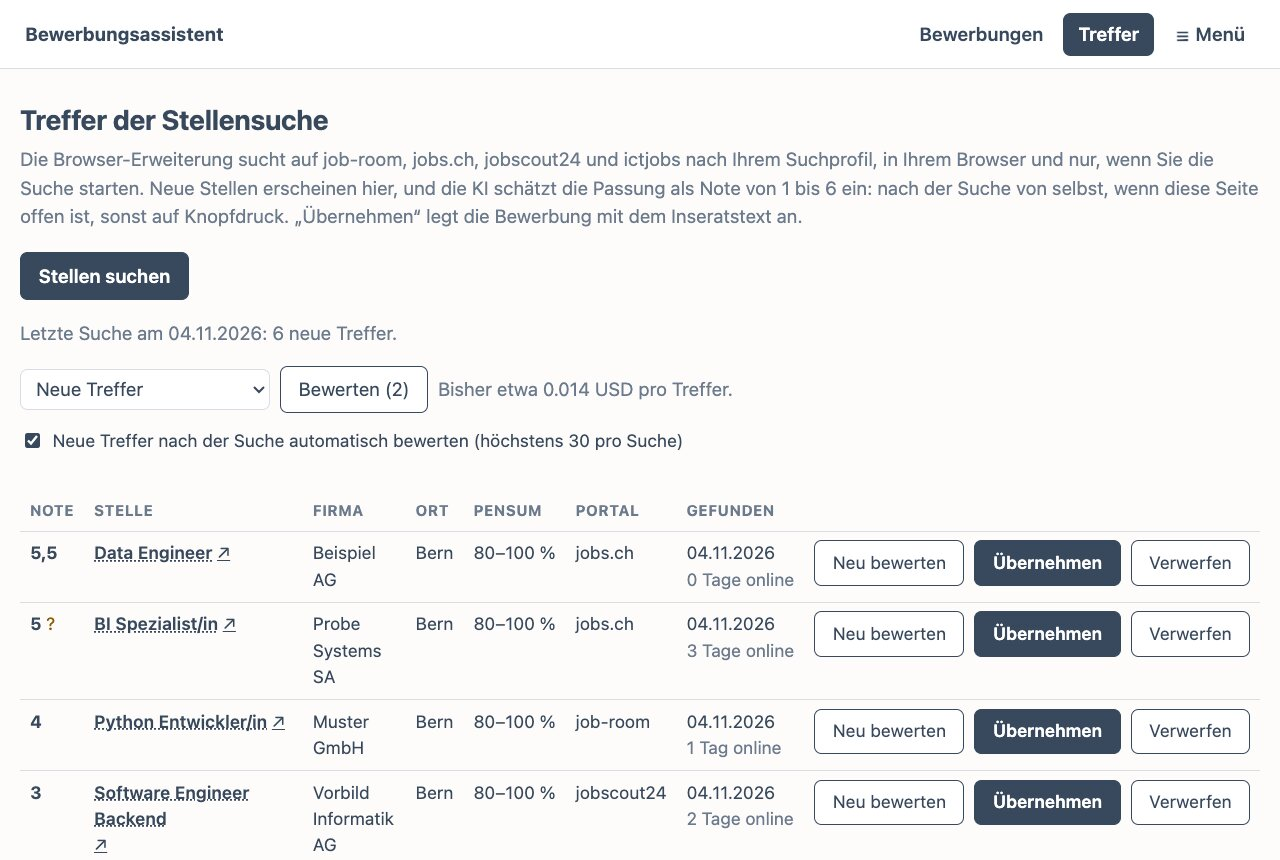
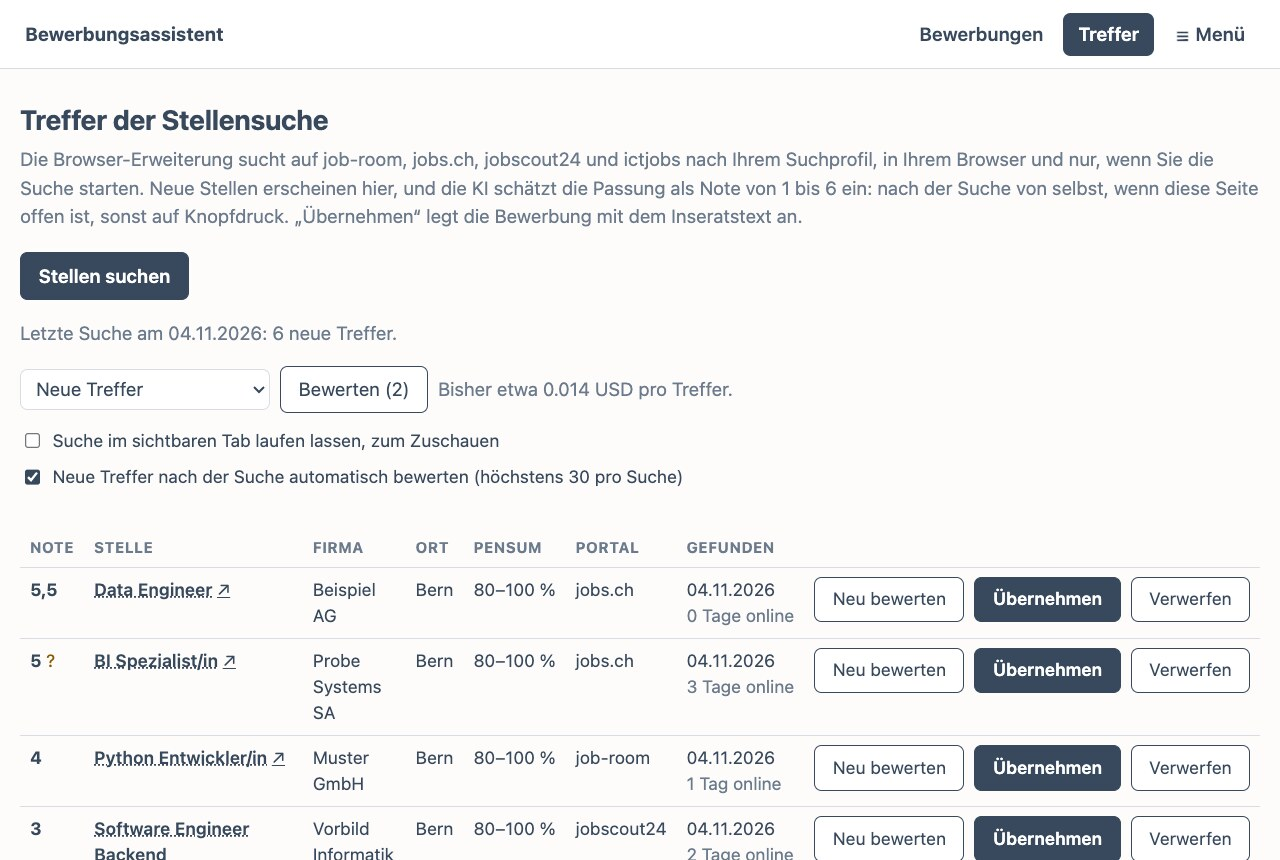
feat: let the person watch the search in a visible tab (MIN-370)
A tick on the search page makes the search run in the active tab; the
setting goes with the search plan, so it also applies to a start from the
popup. The default stays in the background.

A bar says the browser is being steered and offers "Suche abbrechen", shown
again after each page. Closing the tab cancels too, instead of counting as a
problem of the portal. A cancelled run stops before the next request, starts
no further portal, keeps what already reached the app and still writes the
summary.

Claude-Session: https://claude.ai/code/session_01WgFHS5MLF7RQbuiBw169Uz

Changed region(s): [[0.0, 0.4837, 0.9688, 1.0], [0.3125, 0.8163, 0.5, 0.8465]]

diff --git a/erweiterung/lib/search.js b/erweiterung/lib/search.js
@@ -7,17 +7,28 @@ export const DELAY_MS = 600; // between requests to a portal, to stay gentle
 export const SEND_SIZE = 10;
 const SCREEN_SIZE = 200;
 const COMMON = 'portals/common.js';
+const CANCELLED = 'Suche abgebrochen.';
+
+function stopIfCancelled(deps) {
+  if (deps.cancelled?.()) throw Object.assign(new Error(CANCELLED), { cancelled: true });
+}
+
+/** The scripts of the portal, and with „Zuschauen“ the message that the browser is being steered (again after each page). */
+async function loadPortal(portal, plan, tab, deps) {
+  await deps.browser.inject(tab, [COMMON, ADAPTERS[portal].file]);
+  if (plan.zuschauen) await deps.browser.showWatching(tab, portal);
+}
 
 function changedText(portal, message) {
   return `Die Seite von ${portal} hat sich verändert (${message}). Die Suche dort braucht ein Update der Erweiterung.`;
 }
 
 /** For portals that fill their list in the page: the tab goes to the list of this query, adapters loaded anew. */
-async function openResults(portal, query, tab, deps) {
+async function openResults(portal, plan, query, tab, deps) {
   const target = await deps.browser.run(tab, portal, 'searchUrl', [query]);
   if (!target.ok) return target;
   await deps.browser.navigate(tab, target.value);
-  await deps.browser.inject(tab, [COMMON, ADAPTERS[portal].file]);
+  await loadPortal(portal, plan, tab, deps);
   return target;
 }
 
@@ -30,7 +41,8 @@ async function listAll(portal, plan, tab, deps) {
   }
   for (const query of queries) {
     if (ADAPTERS[portal].opensPages) {
-      const opened = await openResults(portal, query, tab, deps);
+      stopIfCancelled(deps);
+      const opened = await openResults(portal, plan, query, tab, deps);
       await deps.sleep(DELAY_MS);
       if (!opened.ok) {
         if (opened.changed) throw Object.assign(new Error(opened.fehler), { changed: true });
@@ -39,6 +51,7 @@ async function listAll(portal, plan, tab, deps) {
       }
     }
     for (let page = 1; page <= plan.max_seiten; page += 1) {
+      stopIfCancelled(deps);
       deps.report({ portal, phase: 'suche', stichwort: query.keyword, seite: page, gefunden: found.size });
       const result = await deps.browser.run(tab, portal, 'list', [query, page]);
       await deps.sleep(DELAY_MS);
@@ -75,6 +88,7 @@ async function sendWithTexts(portal, hits, tab, deps) {
   for (const part of chunks(hits, SEND_SIZE)) {
     const full = [];
     for (const hit of part) {
+      stopIfCancelled(deps);
       deps.report({ portal, phase: 'texte', fertig: done, von: hits.length });
       done += 1;
       const result = await deps.browser.run(tab, portal, 'details', [hit]);
@@ -102,8 +116,8 @@ export async function searchPortal(portal, plan, deps) {
   if (!adapter) return { ...summary, problem: `${portal}: unbekanntes Portal` };
   let tab = null;
   try {
-    tab = await deps.browser.openTab(adapter.start);
-    await deps.browser.inject(tab, [COMMON, adapter.file]);
+    tab = await deps.browser.openTab(adapter.start, Boolean(plan.zuschauen));
+    await loadPortal(portal, plan, tab, deps);
     const { found, problem } = await listAll(portal, plan, tab, deps);
     const wanted = await screen(found, deps.app);
     const { added, missing, failed } = await sendWithTexts(portal, wanted, tab, deps);
@@ -114,6 +128,8 @@ export async function searchPortal(portal, plan, deps) {
     ];
     return { treffer: found.size, neu: added, problem: notes.filter(Boolean).join(' ') };
   } catch (error) {
+    // Closing the tab is a way to cancel too: then the error is only about the tab being gone.
+    if (error.cancelled || deps.cancelled?.()) return { ...summary, problem: `${portal}: ${CANCELLED}` };
     return { ...summary, problem: error.changed ? changedText(portal, error.message) : `${portal}: ${error.message}` };
   } finally {
     if (tab !== null) await deps.browser.closeTab(tab).catch(() => {});
@@ -125,8 +141,9 @@ export async function runSearch(deps) {
   const { plan } = await deps.app.request('GET', '/api/suche/plan');
   const portals = {};
   for (const portal of plan.portale) {
+    if (deps.cancelled?.()) break;
     portals[portal] = await searchPortal(portal, plan, deps);
   }
   await deps.app.request('POST', '/api/suche/abschluss', { portale: portals });
-  return { portale: portals, hinweise: plan.hinweise || [] };
+  return { portale: portals, hinweise: plan.hinweise || [], abgebrochen: Boolean(deps.cancelled?.()) };
 }

diff --git a/erweiterung/background.js b/erweiterung/background.js
@@ -4,13 +4,16 @@
 import { AppConnection, explain } from './lib/app.js';
 import { runSearch } from './lib/search.js';
 import { adKey } from './lib/page-ad.js';
-import { ALLOWED, BAR_ACTIONS, FORM_ACTIONS, RAV_ACTIONS, isRavSender, senderKind } from './lib/senders.js';
+import { ALLOWED, BAR_ACTIONS, FORM_ACTIONS, RAV_ACTIONS, WATCH_ACTION, isRavSender, senderKind } from './lib/senders.js';
 import { ALL_PAGES, ApplyRun } from './lib/apply.js';
 import { RavRun, isRavPage } from './lib/rav.js';
 
 const LOAD_TIMEOUT_MS = 30000;
 const appPorts = new Set();
 let running = false;
+let searchCancelled = false;
+let watchedTab = null; // with „Zuschauen“ (MIN-370): the visible tab of the search
+const WATCHING_TEXT = (portal) => `Der Browser wird gerade vom Bewerbungsassistenten gesteuert: Suche auf ${portal}. Bitte warten und im Tab nichts anklicken; er schliesst sich von selbst. Wird er geschlossen, endet die Suche.`;
 
 // Pages of the app that were already open when the extension was loaded get the bridge now, so the setup page
 // shows „bereit“ without a reload. app-bridge.js itself checks that the page belongs to the app.
@@ -50,10 +53,20 @@ function waitForLoad(tabId) {
 }
 
 const browserTabs = {
-  async openTab(url) {
-    const tab = await chrome.tabs.create({ url, active: false });
+  async openTab(url, watching) {
+    const tab = await chrome.tabs.create({ url, active: watching });
+    if (watching) watchedTab = tab.id;
     await waitForLoad(tab.id);
     return tab.id;
+  },
+  /** Only a note to the person: the search goes on if it cannot be shown. */
+  async showWatching(tabId, portal) {
+    try {
+      await chrome.scripting.executeScript({ target: { tabId }, files: ['form/bar.js'] });
+      await chrome.tabs.sendMessage(tabId, { art: 'formular-balken', balken: { text: WATCHING_TEXT(portal), knoepfe: ['suche_abbrechen'] } }, { frameId: 0 });
+    } catch {
+      // the page is just changing; the next page shows it again
+    }
   },
   async navigate(tabId, url) {
     const loaded = waitForLoad(tabId);
@@ -68,6 +81,7 @@ const browserTabs = {
     return (result && result.result) || { ok: false, fehler: 'Keine Antwort aus dem Tab' };
   },
   closeTab(tabId) {
+    if (watchedTab === tabId) watchedTab = null; // closed by the search itself, that is no cancelling
     return chrome.tabs.remove(tabId);
   },
 };
@@ -80,13 +94,14 @@ async function publish(state) {
 async function startSearch() {
   if (running) return { laeuft: true };
   running = true;
+  searchCancelled = false;
   const app = new AppConnection();
   const started = new Date().toISOString();
   await publish({ zustand: 'laeuft', beginn: started, schritt: { phase: 'start' } });
   (async () => {
     try {
       const report = (step) => publish({ zustand: 'laeuft', beginn: started, schritt: step });
-      const result = await runSearch({ app, browser: browserTabs, report, sleep: (ms) => new Promise((r) => setTimeout(r, ms)) });
+      const result = await runSearch({ app, browser: browserTabs, report, sleep: (ms) => new Promise((r) => setTimeout(r, ms)), cancelled: () => searchCancelled });
       await publish({ zustand: 'fertig', beginn: started, ende: new Date().toISOString(), ergebnis: result });
     } catch (error) {
       await publish({ zustand: 'fehler', beginn: started, fehler: error.message });
@@ -267,6 +282,10 @@ chrome.tabs.onUpdated.addListener((tabId, change, tab) => {
   ravRun.loaded(tabId, tab.url).catch(() => { /* the tab went away while loading */ });
 });
 chrome.tabs.onRemoved.addListener((tabId) => {
+  if (tabId === watchedTab) {
+    watchedTab = null;
+    searchCancelled = true;
+  }
   applyRun.closed(tabId);
   ravRun.closed(tabId);
 });
@@ -321,6 +340,10 @@ function fromForm(message, sender, reply) {
 
 chrome.runtime.onMessage.addListener((message, sender, reply) => {
   if (message && RAV_ACTIONS.has(message.art)) return fromRav(message, sender, reply);
+  if (message && message.art === WATCH_ACTION) {
+    if (sender.id === chrome.runtime.id && sender.tab && sender.tab.id === watchedTab) searchCancelled = true;
+    return false;
+  }
   if (message && (FORM_ACTIONS.has(message.art) || BAR_ACTIONS.has(message.art))) return fromForm(message, sender, reply);
   const actions = {
     'suche-starten': startSearch,

diff --git a/bewerbungen/seiten/treffer.js b/bewerbungen/seiten/treffer.js
@@ -9,7 +9,7 @@
   const ERWEITERUNG = "bewerbungsassistent-erweiterung";
 
   let alle = [];
-  let einstellungen = { auto_bewerten: true, beruf_sterne: {} };
+  let einstellungen = { auto_bewerten: true, zuschauen: false, beruf_sterne: {} };
   let paket = 10;
   let grenze = 30;
   let lehrstelle = false;
@@ -152,6 +152,7 @@
     const kosten = ids.length && proTreffer !== null ? `Bisher etwa ${proTreffer.toFixed(3)} USD pro Treffer.` : "";
     $("kosten-hinweis").textContent = laeuft ? "" : logik.alleBewertet(alle) ? "Alle Treffer sind bewertet." : kosten;
     $("auto-bewerten").checked = einstellungen.auto_bewerten;
+    $("zuschauen").checked = einstellungen.zuschauen;
     $("auto-text").textContent = `Neue Treffer nach der Suche automatisch bewerten (höchstens ${grenze} pro Suche)`;
     zeigeBerufe();
   }
@@ -266,6 +267,7 @@
 
   function laufText(lauf) {
     if (lauf.zustand === "fehler") return [lauf.fehler || "Die Suche ist abgebrochen.", "fehler"];
+    if (lauf.zustand === "fertig" && lauf.ergebnis?.abgebrochen) return ["Suche abgebrochen. Was schon gefunden war, ist da.", "hinweis"];
     if (lauf.zustand === "fertig") return ["Suche fertig.", "ok"];
     const s = lauf.schritt || {};
     if (s.phase === "suche") return [`${s.portal}: suche „${s.stichwort}“, Seite ${s.seite} …`, ""];
@@ -317,6 +319,12 @@
   });
   $("auto-bewerten").addEventListener("change", event => {
     senden("/api/suche/einstellungen", { auto_bewerten: event.target.checked })
+      .then(neu => { einstellungen = neu; })
+      .catch(fehler => { status($("status"), fehler.message, "fehler"); zeigeBewerten(); });
+  });
+
+  $("zuschauen").addEventListener("change", event => {
+    senden("/api/suche/einstellungen", { zuschauen: event.target.checked })
       .then(neu => { einstellungen = neu; })
       .catch(fehler => { status($("status"), fehler.message, "fehler"); zeigeBewerten(); });
   });

diff --git a/erweiterung/lib/senders.js b/erweiterung/lib/senders.js
@@ -15,6 +15,9 @@ export const ALLOWED = {
 export const FORM_ACTIONS = new Set(['formular-stand', 'formular-datei', 'formular-rahmen', 'formular-ki']);
 export const BAR_ACTIONS = new Set(['formular-hier', 'formular-abgeschickt', 'formular-stoppen']);
 
+/** The button in the tab of a search one can watch (MIN-370). */
+export const WATCH_ACTION = 'suche-abbrechen';
+
 /** What the script in the Job-Room tab of a run may ask for (MIN-347). */
 export const RAV_ACTIONS = new Set(['rav-wartet', 'rav-daten', 'rav-stand', 'rav-gespeichert', 'rav-kein-formular', 'rav-eingetragen',
   'rav-ueberspringen', 'rav-stoppen', 'rav-zum-formular']);

diff --git a/erweiterung/lib/progress.js b/erweiterung/lib/progress.js
@@ -20,7 +20,7 @@ export function describeRun(run) {
   const entries = Object.entries(result.portale || {});
   const fresh = entries.reduce((sum, [, p]) => sum + (p.neu || 0), 0);
   return {
-    step: `Fertig: ${fresh} neue Treffer.`,
+    step: result.abgebrochen ? `Abgebrochen: ${fresh} neue Treffer bis dahin.` : `Fertig: ${fresh} neue Treffer.`,
     portals: entries.map(([name, p]) => ({
       text: `${name}: ${p.treffer} gefunden, ${p.neu} neu${p.problem ? ` – ${p.problem}` : ''}`,
       problem: Boolean(p.problem),

diff --git a/bewerbungen/seiten/treffer.html b/bewerbungen/seiten/treffer.html
@@ -45,6 +45,7 @@
     <button type="button" id="anhalten" hidden>Anhalten</button>
     <span id="kosten-hinweis" class="leise"></span>
   </div>
+  <label class="auswahl"><input type="checkbox" id="zuschauen"> Suche im sichtbaren Tab laufen lassen, zum Zuschauen</label>
   <label class="auswahl"><input type="checkbox" id="auto-bewerten"> <span id="auto-text">Neue Treffer nach der Suche automatisch bewerten</span></label>
   <div id="status" class="status" role="status" aria-live="polite"></div>
   <section id="berufe" hidden>

diff --git a/erweiterung/form/bar.js b/erweiterung/form/bar.js
@@ -26,6 +26,7 @@
     hier: ['Hier ausfüllen', 'formular-hier', 'haupt'],
     abgeschickt: ['Abgeschickt? Ja', 'formular-abgeschickt', 'haupt'],
     stoppen: ['Nicht mehr ausfüllen', 'formular-stoppen', ''],
+    suche_abbrechen: ['Suche abbrechen', 'suche-abbrechen', ''],
     rav_ja: ['Eingetragen? Ja', 'rav-eingetragen', ''],
     rav_ueberspringen: ['Überspringen', 'rav-ueberspringen', ''],
     rav_stoppen: ['Stoppen', 'rav-stoppen', ''],

diff --git a/bewerbungen/hits.py b/bewerbungen/hits.py
@@ -292,7 +292,7 @@ class Hits:
         raw = raw if isinstance(raw, dict) else {}
         stars = raw.get("beruf_sterne") if isinstance(raw.get("beruf_sterne"), dict) else {}
         clean = {str(k): v for k, v in stars.items() if type(v) is int and 1 <= v <= MAX_STARS}
-        return {"auto_bewerten": raw.get("auto_bewerten") is not False, "beruf_sterne": clean}
+        return {"auto_bewerten": raw.get("auto_bewerten") is not False, "zuschauen": raw.get("zuschauen") is True, "beruf_sterne": clean}
 
     def _save_settings(self, settings: dict) -> dict:
         schreibe_yaml(self.folder / SETTINGS_FILE, settings)
@@ -301,6 +301,10 @@ class Hits:
     def set_auto_rating(self, enabled: bool) -> dict:
         with _LOCK:
             return self._save_settings({**self.settings(), "auto_bewerten": enabled})
+
+    def set_watching(self, enabled: bool) -> dict:
+        with _LOCK:
+            return self._save_settings({**self.settings(), "zuschauen": enabled})
 
     def set_stars(self, profession: str, stars: int) -> dict:
         """The person's own rating of a profession, 1 to 5; 0 takes it away."""

diff --git a/bewerbungen/tests/test_routes_search.py b/bewerbungen/tests/test_routes_search.py
@@ -252,6 +252,15 @@ def test_settings_default_to_automatic_and_can_be_switched_off(search):
     assert post(search, "/api/suche/einstellungen", {"auto_bewerten": "nein"})[0] == 400
 
 
+def test_watching_is_off_until_chosen_and_goes_with_the_plan(search):
+    assert listing(search)["einstellungen"]["zuschauen"] is False
+    assert json.loads(get(search, "/api/suche/plan")[2])["plan"]["zuschauen"] is False
+    assert post(search, "/api/suche/einstellungen", {"zuschauen": True})[0] == 200
+    assert json.loads(get(search, "/api/suche/plan")[2])["plan"]["zuschauen"] is True
+    assert listing(search)["einstellungen"]["auto_bewerten"] is True, "the other setting stays"
+    assert post(search, "/api/suche/einstellungen", {"zuschauen": "ja"})[0] == 400
+
+
 def test_own_stars_per_profession(search):
     status, saved = post(search, "/api/suche/beruf-sterne", {"beruf": "Fachfrau Gesundheit EFZ", "sterne": 5})
     assert status == 200 and saved["beruf_sterne"] == {"Fachfrau Gesundheit EFZ": 5}

diff --git a/bewerbungen/routes_search.py b/bewerbungen/routes_search.py
@@ -35,7 +35,7 @@ def _list(body, field: str = "treffer") -> list:
 
 
 def plan(k, parameter, body):
-    return json_antwort({"plan": search_plan.for_folder(k.daten).as_dict()})
+    return json_antwort({"plan": {**search_plan.for_folder(k.daten).as_dict(), "zuschauen": _hits(k).settings()["zuschauen"]}})
 
 
 def screen(k, parameter, body):
@@ -156,8 +156,10 @@ def rate_package(k, parameter, body):
 
 
 def settings(k, parameter, body):
+    if isinstance(body, dict) and isinstance(body.get("zuschauen"), bool):
+        return json_antwort(_hits(k).set_watching(body["zuschauen"]))
     if not isinstance(body, dict) or not isinstance(body.get("auto_bewerten"), bool):
-        raise ValueError("auto_bewerten erwartet (ja oder nein)")
+        raise ValueError("auto_bewerten oder zuschauen erwartet (ja oder nein)")
     return json_antwort(_hits(k).set_auto_rating(body["auto_bewerten"]))
 
 

diff --git a/erweiterung/README.md b/erweiterung/README.md
@@ -27,6 +27,8 @@ Die ID der Erweiterung ist fest (`ghniboofenadplgmdgddmgjaaeeogejn`), weil `mani
 
 Die App nimmt über den Host nur diese vier Anfragen und die zwei für die offene Seite (siehe unten) an. Alles andere lehnt der Host ab. Die Erweiterung selbst nimmt Aufträge nur vom Popup und von der Seite der laufenden App an; eine andere Seite auf `127.0.0.1` mit demselben Kennzeichen wird abgewiesen, weil ihre Adresse nicht die ist, die die App über Native Messaging meldet (`lib/senders.js`).
 
+**Zuschauen (MIN-370):** Die Suche läuft im Hintergrund. Mit dem Häkchen auf der Seite „Treffer“ läuft sie im sichtbaren Tab, damit man mitverfolgen kann, was die Erweiterung tut. Die Einstellung kommt mit dem Suchplan, gilt also auch für einen Start im Popup. Ein Balken sagt, dass der Browser gesteuert wird, und bietet „Suche abbrechen“. Den Tab zu schliessen bricht die Suche ebenfalls ab; was schon an die App ging, bleibt. Wer im Tab etwas anklickt, kann die Abfragen stören, darum die Bitte im Balken: Das betroffene Portal meldet dann ein Problem, die übrigen laufen weiter.
+
 ## Stelle auf der offenen Seite prüfen oder speichern (MIN-345)
 
 Für Inserate ausserhalb der Portale, zum Beispiel auf LinkedIn oder den Karriereseiten von Firmen. Die Person öffnet das Inserat selbst und klickt auf das Symbol der Erweiterung.
